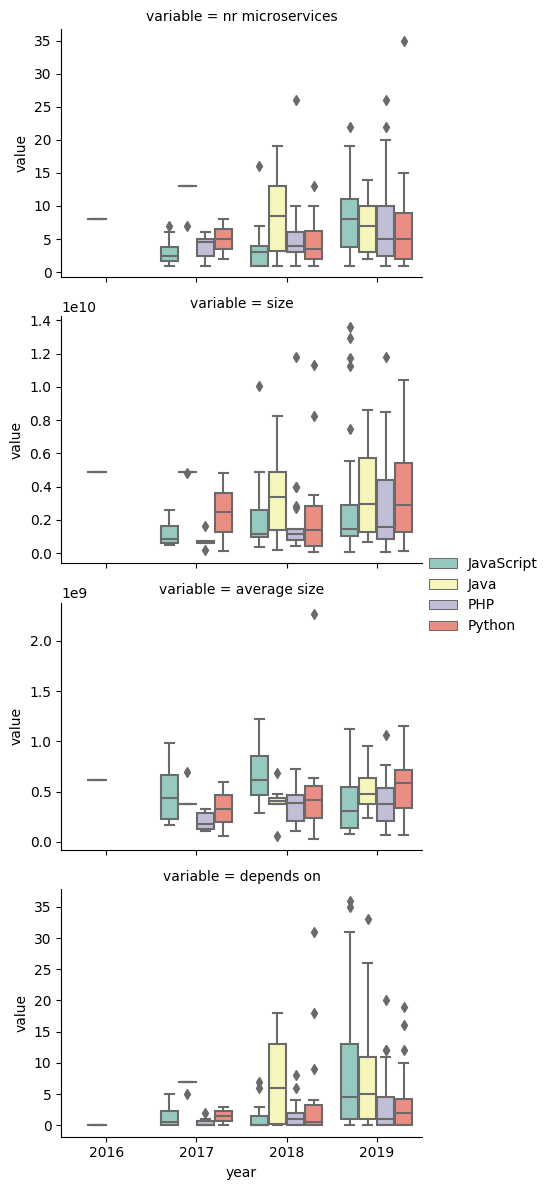
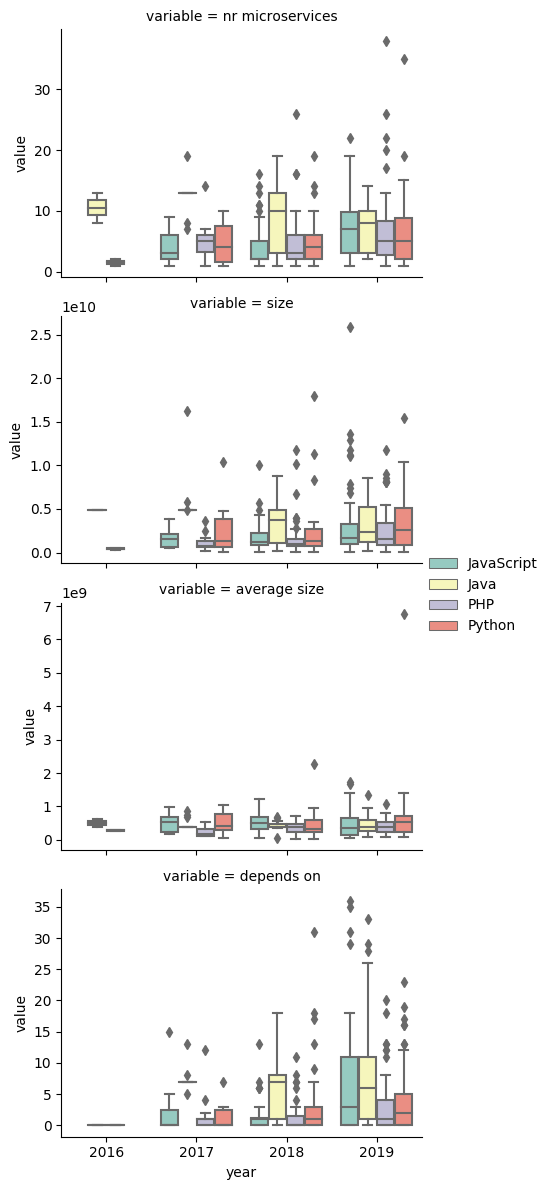
plot 1200 projects

diff --git a/Python/Docker/plotting.py b/Python/Docker/plotting.py
@@ -43,7 +43,7 @@ for folder in os.listdir('repositories'):
 Last updated
 '''
 
-df = pd.DataFrame(projects)
+df = pd.DataFrame(projects).head(1200)
 df['year'] = df['updated'].dt.year
 df = pd.melt(df, id_vars=['year'], value_vars=['nr microservices', 'size', 'average size', 'depends on'])
 g = sns.FacetGrid(df, row='variable', sharey=False, aspect=1.5)
@@ -56,7 +56,7 @@ g.savefig('results/last_updated.png')
 Influence of language
 '''
 
-df2 = pd.DataFrame(projects)
+df2 = pd.DataFrame(projects).head(1200)
 df2['year'] = df2['updated'].dt.year
 # print(df2['language'].value_counts())
 languages = ['JavaScript', 'PHP', 'Java', 'Python']
@@ -72,7 +72,7 @@ g2.savefig('results/language.png')
 Project Duration
 '''
 
-df3 = pd.DataFrame(projects)
+df3 = pd.DataFrame(projects).head(1200)
 df3['duration'] = df3['duration'].dt.days
 df3 = pd.melt(df3, id_vars=['duration'], value_vars=['nr microservices', 'size', 'average size', 'depends on'])
 g3 = sns.lmplot(data=df3, x='duration', y='value', row='variable', sharey=False, palette="Set3", aspect=1.5)
@@ -87,7 +87,7 @@ g3.savefig('results/duration.png')
 Contributors
 '''
 
-df4 = pd.DataFrame(projects)
+df4 = pd.DataFrame(projects).head(1200)
 df4 = pd.melt(df4, id_vars=['contributors'], value_vars=['nr microservices', 'size', 'average size', 'depends on'])
 g4 = sns.lmplot(data=df4, x='contributors', y='value', row='variable', sharey=False, palette="Set3", aspect=1.5)
 
